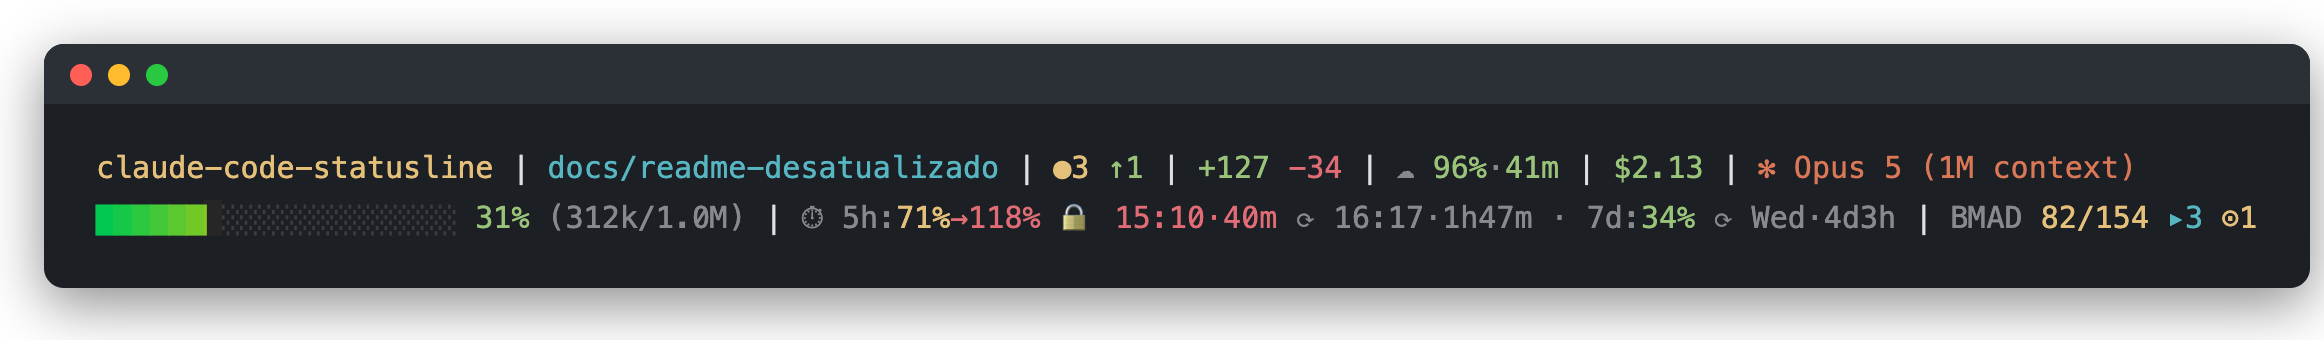
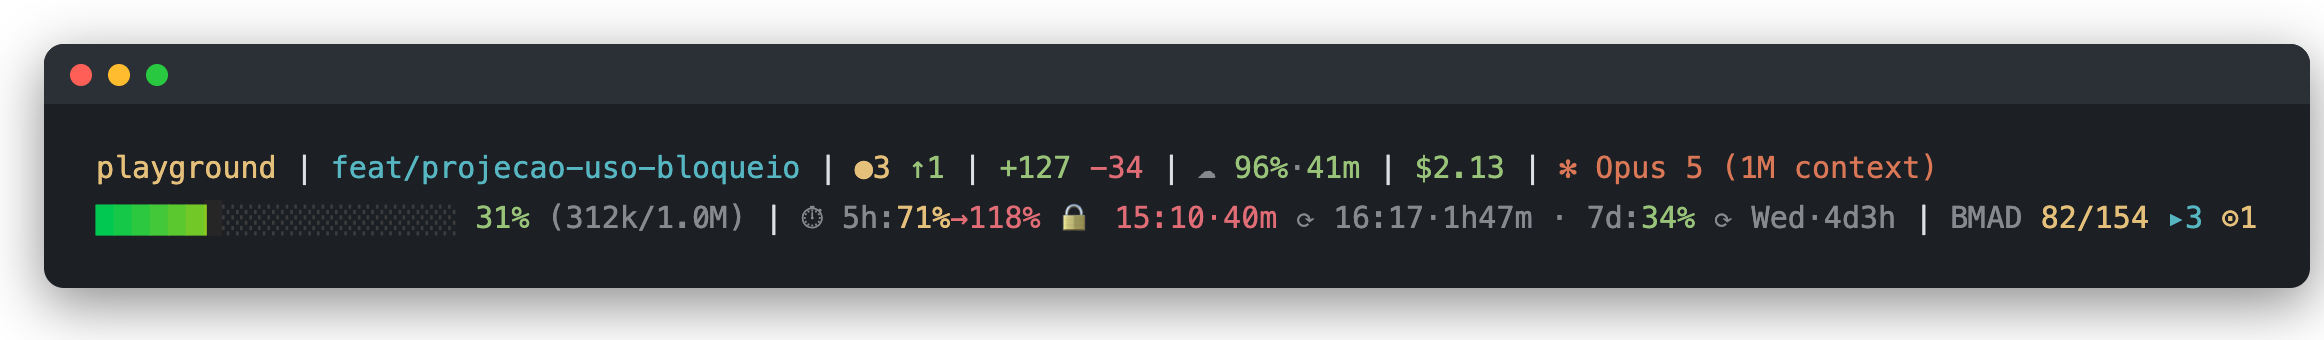
docs: a captura passa a ser de um repositório de trabalho
A imagem anterior mostrava este próprio repositório: `claude-code-statusline`,
com três arquivos sujos e uma sprint BMAD de 154 stories. Nenhum dos dois
sobrevive a um clone — a árvore vem limpa e não existe `_bmad-output` aqui.
Quem clonasse esperando ver aquilo concluiria que a instalação falhou, e o
primeiro contato com o plugin seria uma dúvida.

Trocado por `playground`, um repositório de trabalho qualquer. O nome não
promete nada sobre este repo, e a branch nomeia o recurso que a própria imagem
está demonstrando.

O último parágrafo passa a dizer as duas coisas explicitamente: a árvore limpa
apaga o contador de sujeira, e a sprint depende de o projeto manter o estado
dela em arquivo.

Changed region(s): [[0.062, 0.4412, 0.9294, 0.5588]]

diff --git a/README.md b/README.md
@@ -16,7 +16,9 @@ contexto, e as duas janelas de rate limit — a de 5 horas está em 71% e projet
 82 das 154 stories concluídas, 3 prontas para desenvolvimento, 1 em review.
 
 Cada segmento some quando não tem nada a dizer, então a linha costuma ser mais
-curta que esta — árvore limpa, sem sprint, sem worktree.
+curta que esta. A árvore limpa apaga o `●3 ↑1`, e a sprint só aparece em projeto
+que mantém o estado dela em arquivo — a captura é de um repositório de trabalho,
+não deste.
 
 ## Por que mais uma
 
